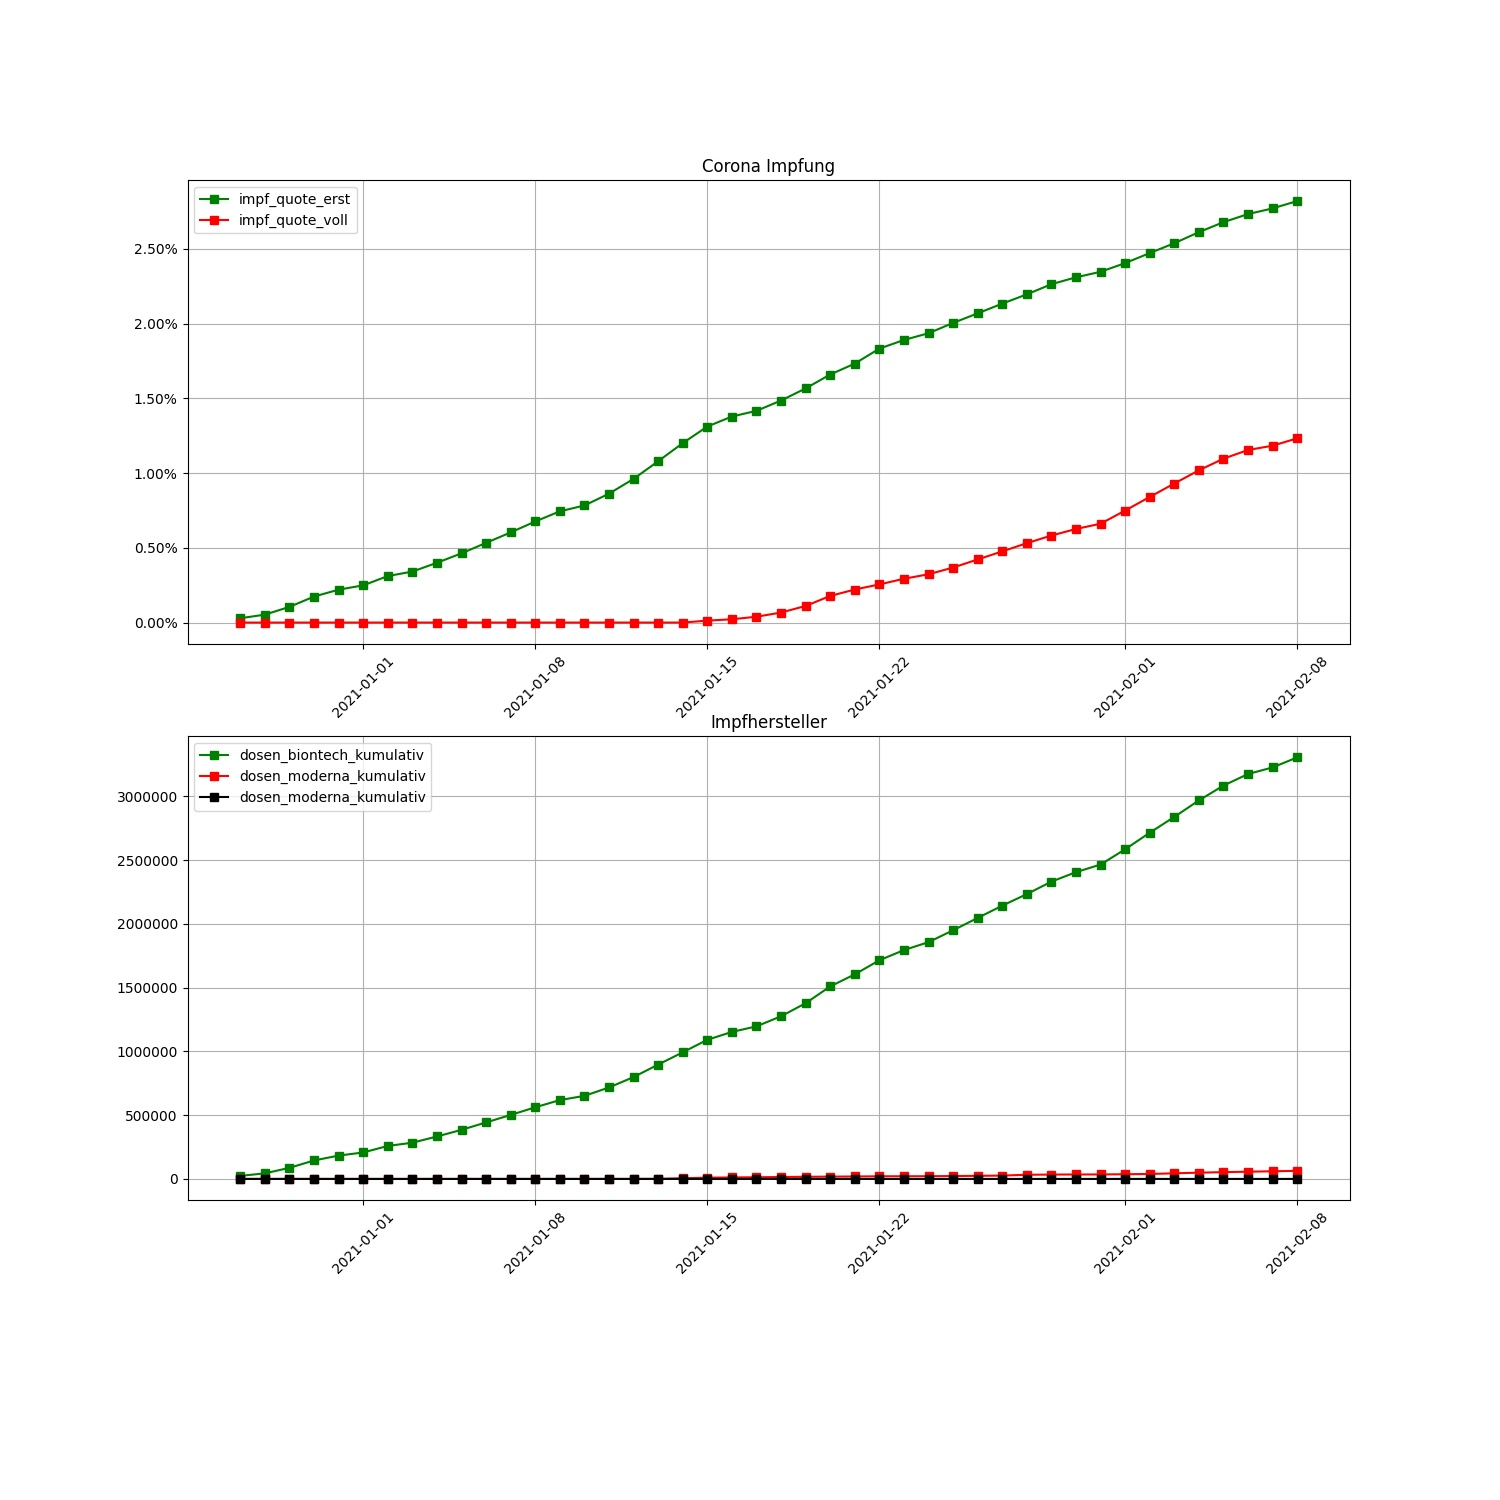
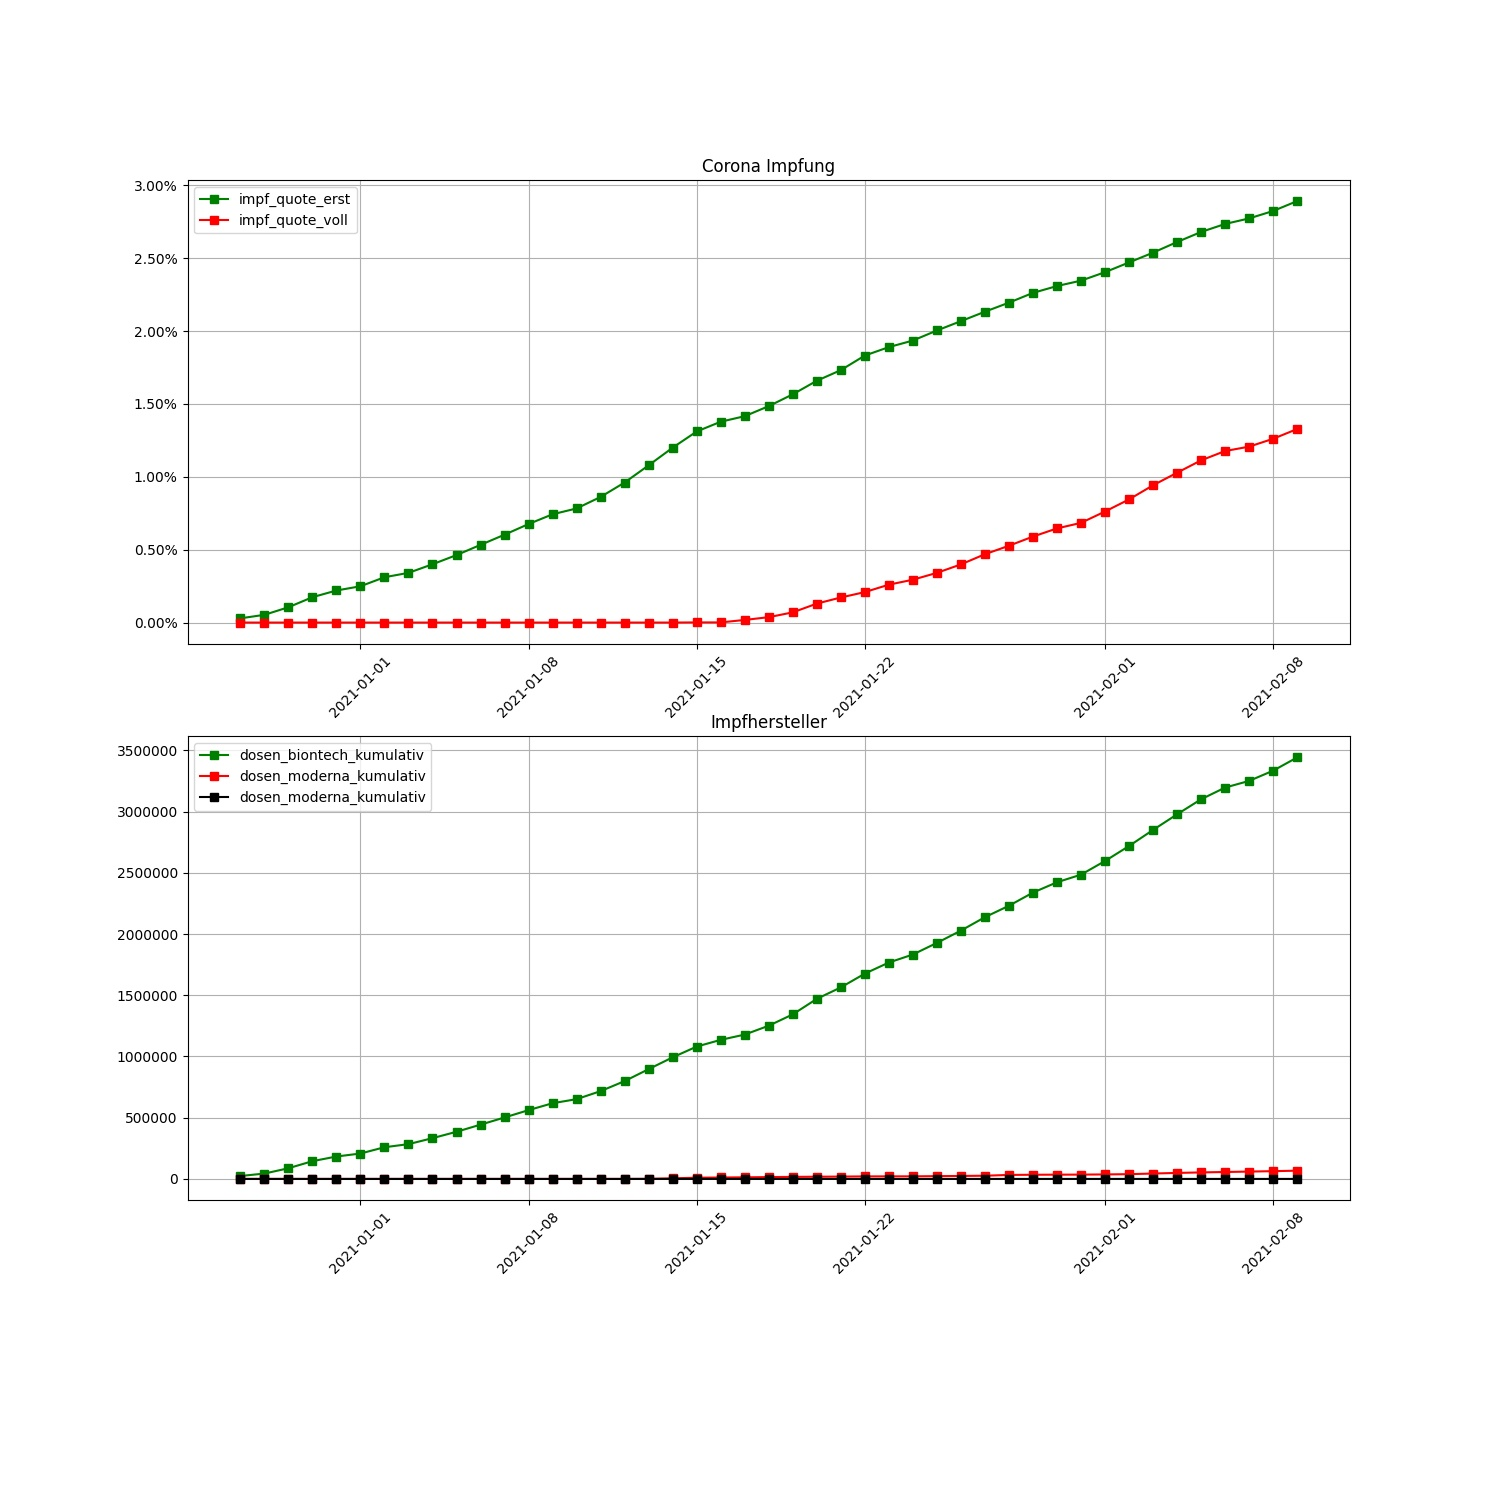
Crontab commit

diff --git a/Readme.md b/Readme.md
@@ -1,19 +1,19 @@
-# Corona vaccine Germany - Stand 2021-02-08
+# Corona vaccine Germany - Stand 2021-02-09
 ## Dashboard by [Simon Hamacher](https://www.shamacher.eu)
 ## Impfstoffe Übersicht
 **Impfstoffhersteller** | **verimpfte Dosen**
 -------- | :--------:
-Biontech | 3305995
-Moderna | 63423
-Astrazeneca | 15
+Biontech | 3442270
+Moderna | 67337
+Astrazeneca | 43
 
 
 ## Quoten
-**Total Verimpfte Dosen:** | 3369433
+**Total Verimpfte Dosen:** | 3509650
 -------- | :--------:
-**Erst-Impfquote** | 2.82
-**Voll-Impfquote** | 1.23
-**Imfungen / Tag** | 76578.02
+**Erst-Impfquote** | 2.89%
+**Voll-Impfquote** | 1.33%
+**Imfungen Durchschnitt** | 77992.44 pro Tag
 ## Graphen
 <img src="Impfungen-Corona-01.jpg" alt="Corona-1" title="optionaler Titel" />
 <img src="Impfungen-Corona-02.jpg" alt="Corona-2" title="optionaler Titel" />
